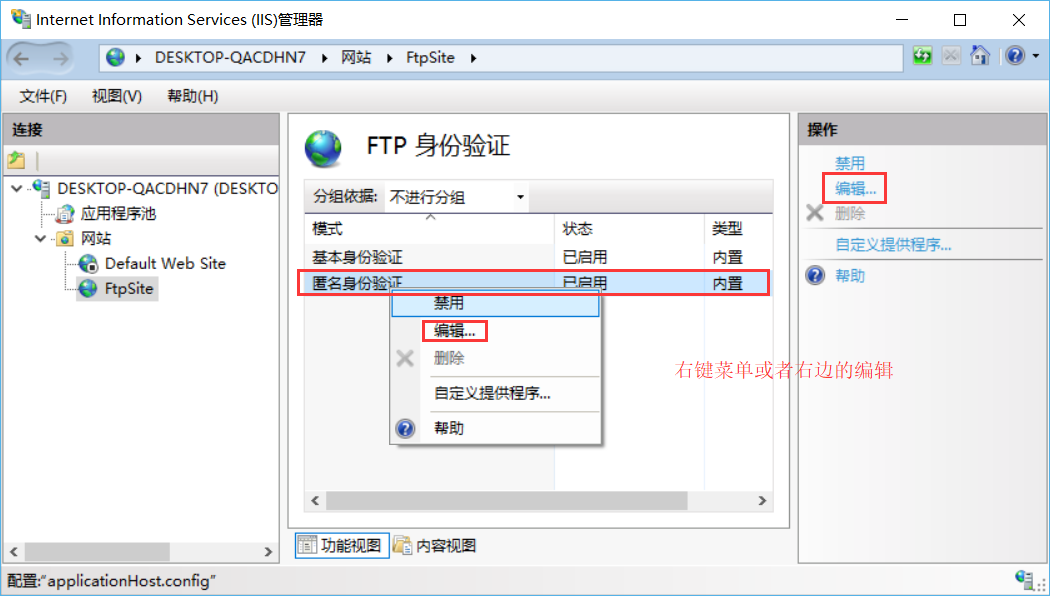
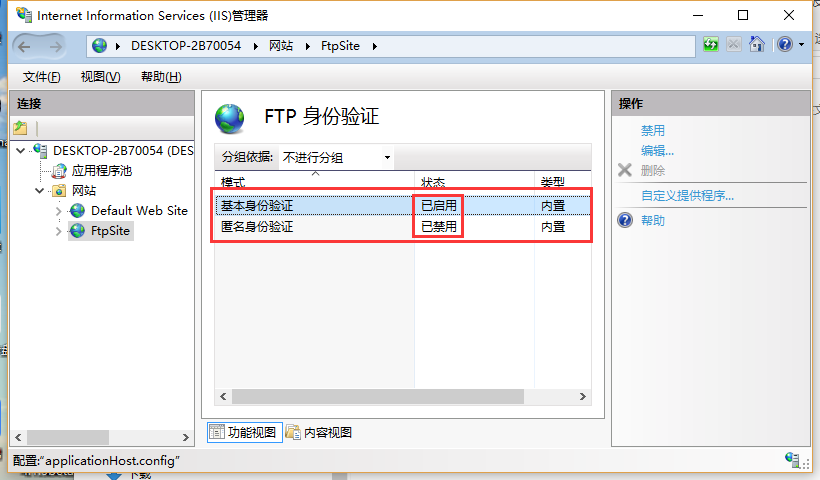
补充完善搭建FTP服务器的文档

Changed region(s): [[0.0, 0.0, 1.0, 1.0]]

diff --git a/ftp_context.md b/ftp_context.md
@@ -2,37 +2,40 @@
 &emsp;&emsp;如果需要开发FTP文件上传下载功能，那么需要在本机上搭建一个本地FTP服务器，方便调试。
 
 ## 第一步：配置IIS Web服务器
-### 控制面板中找到“程序”并打开
+### 1.1 控制面板中找到“程序”并打开
 ![](/docpic/1.jpg "控制面板中找到“程序”")
 
-### 程序界面找到“启用或关闭Windows功能”并打开
+### 1.2 程序界面找到“启用或关闭Windows功能”并打开
 ![](/docpic/2.jpg "启用或关闭Windows功能")
 
-### 从“启用或关闭Windows功能”弹窗中找到Internet Information Services(或者中文版Internet信息服务)并打开
+### 1.3 上面两步也可以简化为一步：按【Win + R】快捷键打开运行对话框，输入“optionalfeatures”后，按回车键
+![](/docpic/3.png "optionalfeatures")
+
+### 1.4 从“启用或关闭Windows功能”弹窗中找到Internet Information Services(或者中文版Internet信息服务)并打开
 ![](/docpic/3.jpg "Internet Information Services")
 
-### 配置IIS并点击确定
+### 1.5 配置IIS并点击确定
 ![](/docpic/4.png "配置IIS并点击确定")
 
 ## 第二步：配置IIS Web站点
-### 开始菜单搜索“IIS”并点击进入IIS管理器
+### 2.1 开始菜单搜索“IIS”并点击进入IIS管理器
 ![](/docpic/5.png "搜索IIS并点击进入IIS管理器")
 
-### 新建FTP站点
+### 2.2 新建FTP站点
 
-#### 新建FTP服务器根目录文件夹
+#### 2.2.1 新建FTP服务器根目录文件夹
 ![](/docpic/6.png "新建FTP服务器根目录文件夹")
 
-#### 查看本机ip地址（打开cmd输入ipconfig）
+#### 2.2.2 查看本机ip地址，后续访问Ftp地址需要用到（打开cmd输入ipconfig）
 ![](/docpic/7.png "查看本机ip地址")
 
-#### IIS网站管理器界面左边导航栏找到“网站”，右键弹出菜单
+#### 2.2.3 IIS网站管理器界面左边导航栏找到“网站”，右键弹出菜单
 ![](/docpic/8.png "右键")
 
-#### IIS网站管理器“网站”右键弹出菜单点击“添加FTP站点”
+#### 2.2.4 IIS网站管理器“网站”右键弹出菜单点击“添加FTP站点”
 ![](/docpic/9.png "添加FTP站点")
 
-#### 配置网站（网站名称：FtpSite 物理路径：E\ftpserver 本机IP地址：192.168.0.105）
+#### 2.2.5 配置网站（网站名称：FtpSite 物理路径：E:\ftpserver 本机IP地址(从下拉菜单选择)：192.168.0.105）
 **Ftp站点名称和物理路径设置**
 ![](/docpic/10.png "Ftp站点名称和物理路径设置")
 
@@ -42,24 +45,43 @@
 **身份验证和授权信息设置**
 ![](/docpic/12.png "身份验证和授权信息设置")
 
-## 第三步：测试FTP站点（先在物理路径：E\ftpserver随便放一个文件）
-### 浏览器输入ftp地址（ftp://192.168.0.105）
+## 第三步：测试FTP站点（先在物理路径：E:\ftpserver随便放一个文件）
+### 3.1 浏览器或者文件管理器地址栏输入ftp地址（ftp://192.168.0.105）
 
 ![](/docpic/13.png "浏览器输入ftp地址")
 
-&emsp;&emsp;输入FTP地址时发现需要用户和密码，可是配置的过程中好像没有看到设置用户和密码的步骤，没关系，我们可以自己设置。
-### IIS管理器配置匿名用户密码（禁用密码）
+&emsp;&emsp;输入FTP地址时发现需要用户和密码（这个看情况，有些默认就可以直接访问了），可是配置的过程中好像没有看到设置用户和密码的步骤，没关系，我们可以自己设置。
+### 3.2 IIS管理器中的FTP身份验证里面配置启用匿名身份认证（无密码）
 
 ![](/docpic/14.png "FTP身份认证")
 
 ![](/docpic/15.png "启用匿名身份认证")
 
-### 再次测试，浏览器输入ftp地址（ftp://192.168.0.105）
+### 3.3 再次测试，浏览器或者文件管理器地址栏输入ftp地址（ftp://192.168.0.105）
 
 ![](/docpic/16.png "匿名用户访问成功")
 
-### IIS管理器配置匿名用户密码（使用密码）
+### 3.4 配置FTP站点用户名和密码
 
-![](/docpic/17.png "匿名用户使用密码")
+#### 3.4.1 IIS管理器中的FTP身份验证里面配置禁用匿名身份认证同时启用基本身份认证（再次访问就会要求输入用户名和密码）
+![](/docpic/17.png "禁用匿名身份认证并且启用基本身份认证")
 
-![](/docpic/18.png "匿名用户使用密码")
+#### 3.4.2 此电脑（桌面计算机图标右键）—>管理->本地用户和组->用户->新建一个用户，并设置密码
+![](/docpic/18.png "此电脑右键菜单")
+
+![](/docpic/19.png "进入计算机管理")
+
+![](/docpic/20.png "设置用户名和密码，全部设置为test")
+
+![](/docpic/21.png "系统用户")
+
+**备注：**细心的你可以能已经发现这里的账户就是我们计算机的账户，所以说我们应该可以使用自己登录电脑的用户名和密码来登录FTP站点，不用新建这个test用户都可以。
+#### 3.4.3 再次测试，浏览器或者文件管理器地址栏输入ftp地址，输入用户名:test，密码:test（ftp://192.168.0.105）
+![](/docpic/13.png "输入用户名和密码")
+
+![](/docpic/16.png "访问成功")
+
+&emsp;&emsp;到此一个简单的FTP服务器搭建成功，同一个局域网内其他人可以访问到你的电脑了，可以相互传输文件。传输文件是一个用途，本文主要是想用来当做一个java 上传下载项目的测试服务器。
+
+### FTP上传下载项目地址
+&emsp;&emsp;[https://github.com/PopFisher/FTPSync](https://github.com/PopFisher/FTPSync "FTP上传下载")

diff --git a/README.md b/README.md
@@ -1,2 +1,4 @@
 # FTPSync
 Java FTP 上传下载文件（支持直接上传下载一个目录）
+
+[FTP服务器搭建请戳这里](https://github.com/PopFisher/FTPSync/blob/master/ftp_context.md "Win10搭建FTP服务器")
